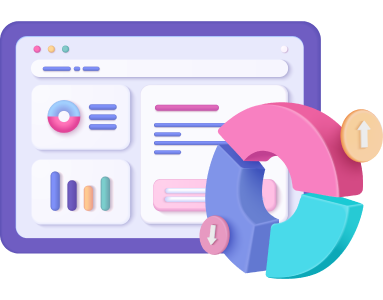
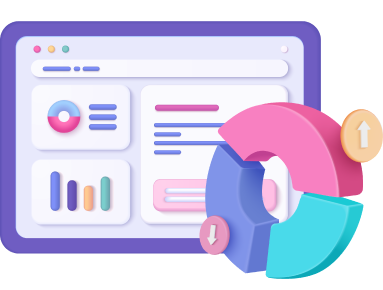
fix

diff --git a/public_html/front/css/style.css b/public_html/front/css/style.css
@@ -586,11 +586,12 @@ hr {
 }
 
 .solution-img .document-img img {
-    width: 27.43125rem;
+    width: 23.43125rem;
 }
 
 .solution-img .financial-img img {
-    width: 20.34375rem;
+    width: 23.34375rem;
+    margin-left: 25px;
 }
 
 .solution-img img {
@@ -3555,8 +3556,8 @@ hr {
     }
 
     .solution .solution-content .solution-img img {
-        width: 80%;
-        height: 90%;
+        /* width: 80%; */
+        /* height: 90%; */
         margin: 0 auto;
     }
 
@@ -4576,11 +4577,11 @@ hr {
     }
 
     .solution-img .document-img img {
-        width: 39.1875rem;
+        width: 23.938rem;
     }
 
     .solution-img .financial-img img {
-        width: 29.0625rem;
+        width: 23.938rem;
     }
 
     .solution-img img {
@@ -6275,7 +6276,7 @@ hr {
         width: 100%;
     }
     .solution-img img {
-        margin: 0rem 4.428125rem;
+        margin: 0rem 10.428125rem !important;
     }
     .our-story-content .para {
         padding-left: 0.8rem;
@@ -6308,7 +6309,10 @@ hr {
     .our-story-content .para p {
         text-align: justify;
     }
-
+    .solution-img img
+{
+    margin: 0 4.23rem;
+}
     .career-content p {
         text-align: justify;
     }
@@ -6966,16 +6970,16 @@ hr {
     }
 
     .solution-img img {
-        margin: 0;
+        /* margin: 0; */
     }
 
-    .solution-img .document-img img {
+    /*.solution-img .document-img img {
         width: 100%;
     }
 
     .solution-img .financial-img img {
         width: 100%;
-    }
+    }*/
 
     .solution .head {
         padding-top: 2rem;
@@ -8449,6 +8453,15 @@ hr {
 }
 
 @media screen and (min-width: 1900px) {
+    .solution-img {
+        margin-top: 8.813rem;
+        justify-content: space-evenly !important;
+    }
+
+    .document-img {
+        margin-left: 100px;
+    }
+
     .banner-content .home-banner-head h1 {
         font-size: 48.83px;
         line-height: 70px;
